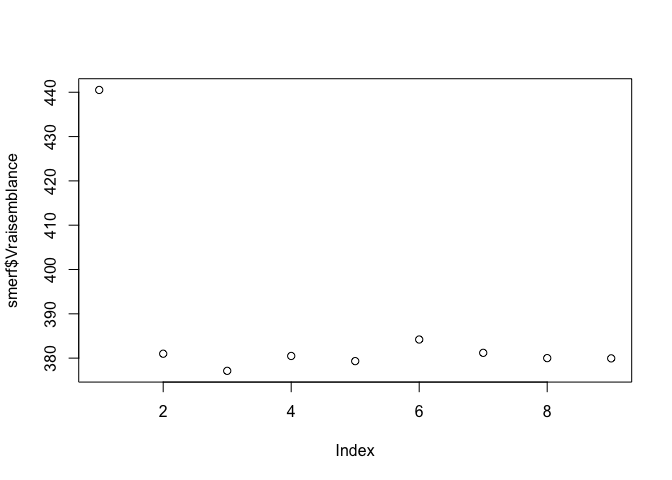
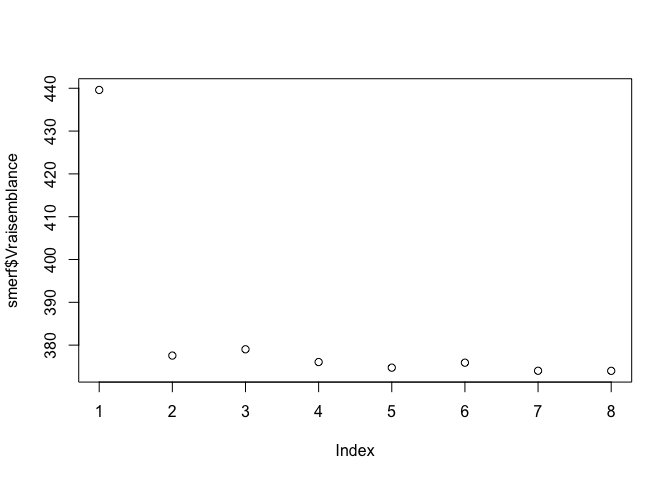
Fix README.md

diff --git a/README.md b/README.md
@@ -39,25 +39,7 @@ sto=“BM” to specify a Brownian motion as stochastic process
 
 ``` r
 smerf <- MERF(X=data$X,Y=data$Y,Z=data$Z,id=data$id,time=data$time,mtry=2,ntree=500,sto="BM")
-#> [1] "coucou"
-#> [1] 0
-#> [1] "coucou"
-#> [1] 0
-#> [1] "coucou"
-#> [1] 0
-#> [1] "coucou"
-#> [1] 0
-#> [1] "coucou"
-#> [1] 0
-#> [1] "coucou"
-#> [1] 0
-#> [1] "coucou"
-#> [1] 0
-#> [1] "coucou"
-#> [1] 0
-#> [1] "coucou"
-#> [1] 0
-#> [1] "stopped after 9 iterations."
+#> [1] "stopped after 8 iterations."
 ```
 
 is the fitted random forest (obtained at the last iteration).
@@ -71,8 +53,8 @@ smerf$forest
 #>                      Number of trees: 500
 #> No. of variables tried at each split: 2
 #> 
-#>           Mean of squared residuals: 0.4005203
-#>                     % Var explained: 97.57
+#>           Mean of squared residuals: 0.3791148
+#>                     % Var explained: 97.73
 ```
 
 are the predicted random effects for each individual.
@@ -80,71 +62,71 @@ are the predicted random effects for each individual.
 ``` r
 smerf$random_effects 
 #>              [,1]       [,2]
-#>  [1,] -0.46545632 -1.9584240
-#>  [2,] -0.60530661 -2.0561015
-#>  [3,]  0.62433379  2.5974150
-#>  [4,] -0.65495056 -1.9787038
-#>  [5,]  0.46485020  1.5597098
-#>  [6,] -0.49842183 -1.3231947
-#>  [7,] -0.75897409 -1.5594130
-#>  [8,] -0.13052697 -0.6619248
-#>  [9,]  0.47026042  1.1258680
-#> [10,]  0.62681822  2.7196653
-#> [11,] -0.67647906 -1.4174617
-#> [12,] -0.04658720  1.0042308
-#> [13,] -0.06078194  0.6178129
-#> [14,]  0.03773176  0.4135450
-#> [15,] -0.16392902 -0.7666988
-#> [16,]  0.31558309  1.2505464
-#> [17,]  0.26428589  0.8163429
-#> [18,]  0.22852866  1.8418661
-#> [19,]  0.49234613  1.2713469
-#> [20,]  0.27416833  0.9196796
+#>  [1,] -0.47044130 -1.9996332
+#>  [2,] -0.61467293 -2.0327449
+#>  [3,]  0.61464395  2.6097592
+#>  [4,] -0.67621146 -1.9164338
+#>  [5,]  0.47927855  1.5402910
+#>  [6,] -0.51480557 -1.3320281
+#>  [7,] -0.80152943 -1.6187361
+#>  [8,] -0.12082083 -0.6422576
+#>  [9,]  0.48665502  1.2012401
+#> [10,]  0.67057162  2.7274994
+#> [11,] -0.70194681 -1.3422333
+#> [12,] -0.05961006  0.9314583
+#> [13,] -0.06302667  0.6108518
+#> [14,]  0.07380411  0.4119336
+#> [15,] -0.14161043 -0.6571476
+#> [16,]  0.32845088  1.2642185
+#> [17,]  0.27370622  0.8166049
+#> [18,]  0.21915431  1.8131999
+#> [19,]  0.50600274  1.2632782
+#> [20,]  0.28071744  0.8784794
 ```
 
 are the predicted stochastic processes.
 
 ``` r
 smerf$omega 
-#>   [1]  0.021384336  0.153636918  0.660845719  0.203663436  0.844951005
-#>   [6]  1.405052995  1.395484983  1.693417774  2.465496910 -0.230499119
-#>  [11] -0.696626782 -0.598514083 -0.091560739 -0.216310002  0.230512038
-#>  [16]  0.339009358  1.107898069  1.702639959  1.942853432  2.909096520
-#>  [21] -0.013160525  0.484720424  1.060165506  1.839150661  2.012183976
-#>  [26]  2.094697775  1.194281813  0.851570338  0.691951608 -0.378901958
-#>  [31] -0.919922782 -0.584201046 -0.868915743  0.038771441 -0.718685710
-#>  [36] -1.377565341 -1.698875832 -2.191444307 -2.514248159 -2.833408614
-#>  [41]  0.187167272  0.219061285  0.416382504  0.679735097  0.598894950
-#>  [46] -0.176125908 -0.545326712 -0.073478847  0.291479442  0.840141490
-#>  [51]  1.389406493 -0.384466302 -1.076788659 -1.893392594 -2.496267590
-#>  [56] -2.580584996 -1.985621643 -1.971072061 -1.939498645 -0.825197119
-#>  [61] -1.042476474 -1.833404579 -2.045556320 -2.103310912 -2.384436291
-#>  [66] -1.965256762 -2.648646306 -2.886837678 -2.826259345  0.065331942
-#>  [71] -0.283958303  0.014410405  0.140958493  0.398346254 -0.322029100
-#>  [76] -1.084222592 -1.322729176 -1.347605398 -1.725033442 -1.741511186
-#>  [81]  0.427256366  1.028933146  0.303711422  0.451829755  0.514071934
-#>  [86]  1.153545203  1.133501772  0.359080863 -0.858518792 -1.372722580
-#>  [91] -0.072119809  1.094737424  2.258696988  3.295099071  3.788761598
-#>  [96]  4.910118020  5.409002955  5.538925932  5.756989749 -0.721005261
-#> [101] -1.948109973 -2.563823282 -2.680936795 -1.767364069 -0.879110709
-#> [106] -0.515287578 -0.173527655  1.078383858  1.555871588  1.866256694
-#> [111] -0.629619012 -0.611007758 -0.583609089  0.083151465  1.187991824
-#> [116]  0.732573942  0.672084168 -0.010233441 -0.256925683 -0.457009600
-#> [121] -0.666124888 -1.069156294 -1.076990981 -1.684567464 -1.562061956
-#> [126] -0.690525844 -0.724443097 -0.325920199  0.002684844 -0.135842624
-#> [131]  0.206652901  0.610336424  0.694848119  0.750218172  0.553676396
-#> [136]  0.266521778 -0.099272205  0.045291041  1.135355234  0.048040647
-#> [141] -0.514766770 -0.653671479 -0.285372701 -0.281901063 -0.792788936
-#> [146] -1.404724380 -1.826603451  0.026178449 -0.241273408 -0.585923455
-#> [151] -1.558908066 -1.910972067 -1.094944484  0.309659264 -1.284969817
-#> [156] -1.741267248 -2.258301077 -2.329487401  0.143475201  0.710633784
-#> [161]  1.511909163  2.585932042  2.689440172  2.698429919  2.611542546
-#> [166]  2.488656739 -0.473864000  0.031217058  0.813486752  1.552400469
-#> [171]  1.620198331  1.889667979  2.250805334  2.288654850  0.398580264
-#> [176]  1.171953844  1.919685834  2.084754523  1.343998271  0.910615470
-#> [181]  0.387903811 -1.435612810 -2.364813918  0.110515409 -0.353411641
-#> [186]  0.404274818 -0.229538852 -1.600456466 -1.384935976 -0.773704194
-#> [191] -0.091641616 -0.252336649 -0.364250367 -0.164358074
+#>   [1]  0.042927895  0.147544244  0.728306436  0.238740648  0.878555073
+#>   [6]  1.372391811  1.355081942  1.714186164  2.454631871 -0.224172727
+#>  [11] -0.771619578 -0.638139662 -0.110855877 -0.274885812  0.154821025
+#>  [16]  0.223535598  0.960308660  1.564343196  1.793740627  2.739708485
+#>  [21] -0.054726450  0.430217111  0.997516942  1.831464899  1.951099579
+#>  [26]  2.031300484  1.087187372  0.806847836  0.688782384 -0.401169616
+#>  [31] -0.956470995 -0.665016679 -0.945473912  0.010352006 -0.750865218
+#>  [36] -1.424897583 -1.752543069 -2.239487437 -2.648899202 -3.027363201
+#>  [41]  0.196395325  0.228399016  0.543749080  0.727684010  0.602878173
+#>  [46] -0.170359202 -0.536112711 -0.102531844  0.247532652  0.767423467
+#>  [51]  1.325316992 -0.366771859 -1.020826847 -1.864767301 -2.427532790
+#>  [56] -2.564137250 -1.983315824 -1.992792953 -1.984368974 -0.791009731
+#>  [61] -1.060418450 -1.742087391 -1.999776297 -2.077471760 -2.343449131
+#>  [66] -1.929655325 -2.610273737 -2.796641310 -2.701594138  0.073220663
+#>  [71] -0.231037958  0.046660523  0.099412681  0.311706388 -0.396716624
+#>  [76] -1.138871184 -1.440298127 -1.431893457 -1.852242873 -1.936148046
+#>  [81]  0.374720508  0.966894339  0.180994587  0.213632067  0.225978579
+#>  [86]  0.975305431  0.953457605  0.127776817 -1.024882008 -1.534164706
+#>  [91] -0.001848051  1.161949828  2.320147583  3.293365800  3.786215700
+#>  [96]  4.926242594  5.359637740  5.492835310  5.636595192 -0.729166229
+#> [101] -1.989150100 -2.572208174 -2.659577307 -1.795959803 -0.927460392
+#> [106] -0.504197017 -0.148582145  1.012720220  1.488879857  1.834392941
+#> [111] -0.567131762 -0.573726849 -0.564203770  0.038629294  1.074468772
+#> [116]  0.748523124  0.733761874  0.037340906 -0.213708488 -0.418904793
+#> [121] -0.580671267 -1.068210288 -1.126850876 -1.697832750 -1.627826269
+#> [126] -0.735778166 -0.742535863 -0.365548489 -0.028418638 -0.054202228
+#> [131]  0.168411153  0.572619731  0.670570822  0.655614988  0.571203358
+#> [136]  0.273826235 -0.138430043 -0.084212296  0.898791686  0.039609805
+#> [141] -0.526291887 -0.696857399 -0.364099349 -0.403731834 -1.022063465
+#> [146] -1.677498811 -2.100962879  0.033758667 -0.244497454 -0.550166836
+#> [151] -1.578982421 -1.852133463 -0.999842061  0.247771832 -1.370710819
+#> [156] -1.836427260 -2.353524574 -2.387391163  0.142613696  0.727265431
+#> [161]  1.528823903  2.592088502  2.612094030  2.607972015  2.564047997
+#> [166]  2.476983080 -0.446067115  0.087469549  0.864508802  1.638133768
+#> [171]  1.694184422  1.942668233  2.343957499  2.397603230  0.382716827
+#> [176]  1.150850959  1.842091667  1.874638531  1.119218402  0.690999538
+#> [181]  0.239809886 -1.590678616 -2.553255395  0.126474662 -0.343000674
+#> [186]  0.495459710 -0.205166657 -1.642776091 -1.375574273 -0.751664243
+#> [191] -0.174300782 -0.442753968 -0.493623295 -0.266079680
 ```
 
 ``` r
@@ -157,6 +139,6 @@ OOB error at each iteration.
 
 ``` r
 smerf$OOB 
-#> [1] 12.4680781  0.6549920  0.4345158  0.4151839  0.3984141  0.4180083  0.3958871
-#> [8]  0.3983220  0.4005203
+#> [1] 12.4233086  0.6753460  0.4546375  0.3986009  0.3865408  0.3887012  0.3772537
+#> [8]  0.3791148
 ```
